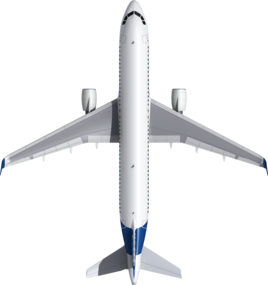
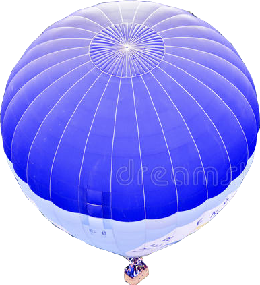
mudança de avião para balão. correção de posicão das imagens ao carregar da tela. Separação de css para arquivo. Alguns balões antigos avioes foram reposicionados.

diff --git a/index.html b/index.html
@@ -1,43 +1,7 @@
 <!DOCTYPE html>
 <html>
 <head>
-<style>
-body{
-margin:0px;
-}
-.painel{
-width:100%;
-height:1120px;
-text-align: center;
-border: solid black 10px;
-}
-
-
-#azul{
-background:url(plane.png),url(plane.png),url(plane.png),url(plane.png),url(plane.png),url(plane.png),url(plane.png),url(plane.png),url(plane.png),url(plane.png),url(plane.png),url(plane.png),url(ceu-vert.jpg);
-background-repeat:no-repeat,no-repeat,no-repeat,no-repeat,no-repeat,no-repeat,no-repeat,no-repeat,no-repeat,no-repeat,no-repeat,no-repeat,no-repeat;
-background-size:
-
-50px auto,
-150px auto,
-250px auto,
-350px auto,
-450px auto,
-550px auto,
-50px auto,
-150px auto,
-250px auto,
-350px auto,
-450px auto,
-550px auto,
-
-
-100% 2460px;
-position: relative;
-}
-
-
-</style>
+<link rel="stylesheet" type="text/css" href="main.css">
 <script src="https://code.jquery.com/jquery-2.2.0.min.js"></script>
 <script>
 $(document).ready(function(){
@@ -56,12 +20,12 @@ $(document).ready(function(){
             var yPosH = (yPos*0.5)+800; 
             var yPosI = (yPos*1.5)+200; 
             var yPosJ = (yPos*2.5)+800; 
-            var yPosK = (yPos*3.5)+300;
+            var yPosK = (yPos*4.5)+300;
             var yPosL = (yPos*4.5)+600;
             var yPosM = (yPos*5.5)+1900;      
             
             var coords = 
-            '50% '+ yPosB + 'px,'+
+            '48% '+ yPosB + 'px,'+
             '20% '+ yPosC + 'px,'+
             '30% '+ yPosD + 'px,'+
             '70% '+ yPosE + 'px,'+
@@ -70,8 +34,8 @@ $(document).ready(function(){
             '5% '+ yPosH + 'px,'+
             '20% '+ yPosI + 'px,'+
             '80% '+ yPosJ + 'px,'+
-            '90% '+ yPosK + 'px,'+
-            '30% '+ yPosL + 'px,'+
+            '100% '+ yPosK + 'px,'+
+            '50% '+ yPosL + 'px,'+
             '30% '+ yPosM + 'px,'+
             '50% '+ yPos + 'px';
 

diff --git a/main.css b/main.css
@@ -1,0 +1,82 @@
+
+body{
+margin:0px;
+}
+.painel{
+width:100%;
+height:1120px;
+text-align: center;
+border: solid black 10px;
+}
+
+
+#azul{
+background:
+url(plane.png),
+url(plane.png),
+url(plane.png),
+url(plane.png),
+url(plane.png),
+url(plane.png),
+url(plane.png),
+url(plane.png),
+url(plane.png),
+url(plane.png),
+url(plane.png),
+url(plane.png),
+url(ceu-vert.jpg);
+
+background-repeat:
+no-repeat,
+no-repeat,
+no-repeat,
+no-repeat,
+no-repeat,
+no-repeat,
+no-repeat,
+no-repeat,
+no-repeat,
+no-repeat,
+no-repeat,
+no-repeat,
+repeat;
+
+
+background-size:
+
+50px auto,
+150px auto,
+250px auto,
+350px auto,
+450px auto,
+550px auto,
+50px auto,
+150px auto,
+250px auto,
+450px auto,
+350px auto,
+550px auto,
+
+
+100% 2460px;
+
+background-position: 
+
+
+ 48% 1100px,
+ 20% 2100px,
+ 30% 2100px,
+ 70% 4500px,
+ 85% 2100px,
+ 120% 4200px,
+ 5% 800px,
+ 20% 200px,
+ 80% 800px,
+ 90% 300px,
+ 30% 600px,
+ 30% 1900px,
+ 50% 0px;
+
+position: relative;
+}
+
